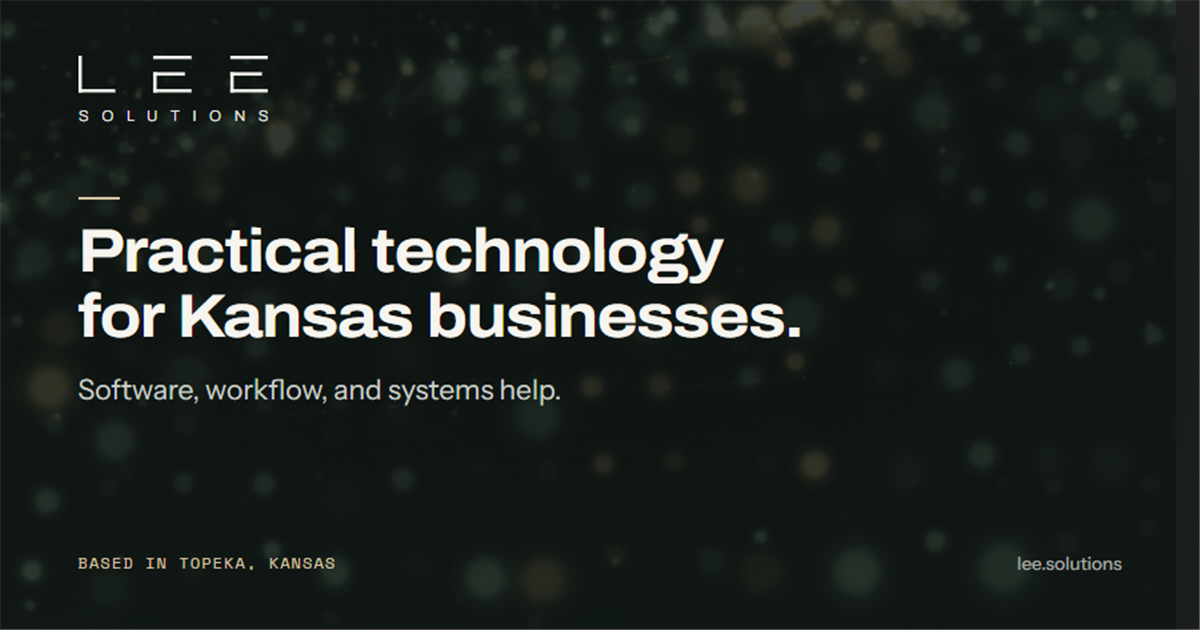
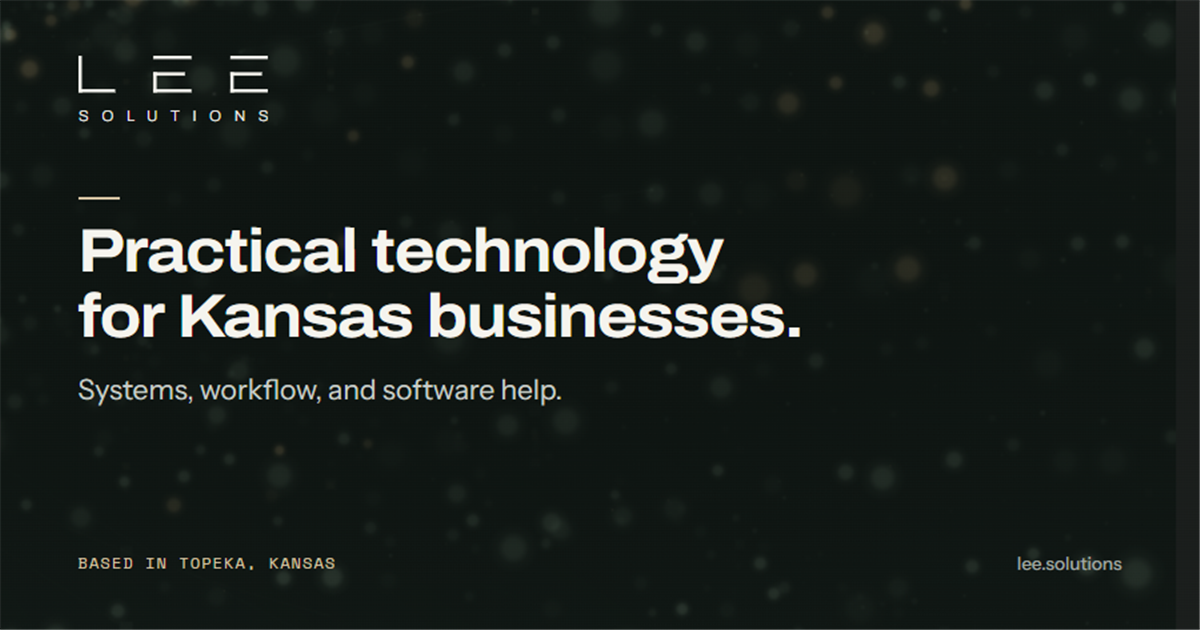
Update tagline to match the leave-behind: "Systems, workflow, and software"
Reordered the homepage hero lede and the social preview card's subhead
from "Software, workflow, and systems help..." to "Systems, workflow, and
software help..." to match the updated print leave-behind copy.

Claude-Session: https://claude.ai/code/session_01MRr7vu1LuSBriFJaiPkj8K

diff --git a/site/index.html b/site/index.html
@@ -70,7 +70,7 @@
     <div class="lee-hero-inner">
       <p class="lee-brand-line">People <span class="lee-brand-line-dot" aria-hidden="true">&middot;</span> Processes <span class="lee-brand-line-dot" aria-hidden="true">&middot;</span> Possibilities</p>
       <h1 class="ls-display">Work can be challenging. Technology shouldn't be.</h1>
-      <p class="lede">Software, workflow, and systems help for Kansas business owners.</p>
+      <p class="lede">Systems, workflow, and software help for Kansas business owners.</p>
       <div class="lee-hero-actions">
         <a class="lee-btn variant-accent size-lg" href="/contact/">
           Start a conversation
